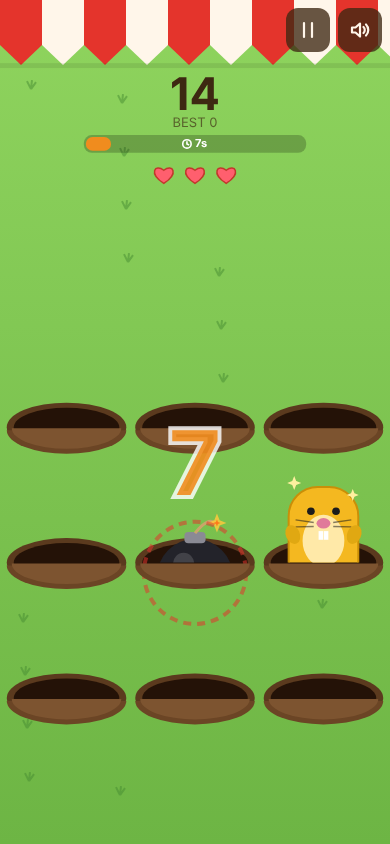
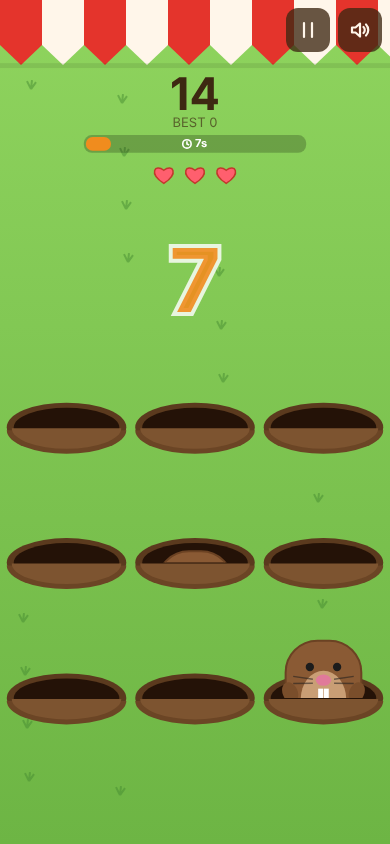
Mole Mash: 카운트다운 숫자를 윗줄 두더지 위로

diff --git a/docs/playables/molemash/index.html b/docs/playables/molemash/index.html
@@ -1395,7 +1395,7 @@
         ctx.globalAlpha = 0.9; ctx.textAlign = 'center';
         ctx.font = 'bold ' + Math.round(72 * UI * pop2) + 'px -apple-system, BlinkMacSystemFont, "Segoe UI", Roboto, Arial, sans-serif';
         ctx.lineWidth = 8 * UI; ctx.strokeStyle = 'rgba(255,255,255,0.9)'; ctx.fillStyle = sec <= 5 ? '#e4342c' : '#f08c1e';
-        var cy2 = holes[4].y - cellW * 0.59;   // between the first and second row
+        var cy2 = Math.max(grid.y + 62 * UI, holes[0].y - moleH - 22 * UI);   // just above the top row, never over a mole
         ctx.strokeText(String(sec), W / 2, cy2); ctx.fillText(String(sec), W / 2, cy2);
         ctx.restore();
       }

diff --git a/playables/molemash/index.html b/playables/molemash/index.html
@@ -1395,7 +1395,7 @@
         ctx.globalAlpha = 0.9; ctx.textAlign = 'center';
         ctx.font = 'bold ' + Math.round(72 * UI * pop2) + 'px -apple-system, BlinkMacSystemFont, "Segoe UI", Roboto, Arial, sans-serif';
         ctx.lineWidth = 8 * UI; ctx.strokeStyle = 'rgba(255,255,255,0.9)'; ctx.fillStyle = sec <= 5 ? '#e4342c' : '#f08c1e';
-        var cy2 = holes[4].y - cellW * 0.59;   // between the first and second row
+        var cy2 = Math.max(grid.y + 62 * UI, holes[0].y - moleH - 22 * UI);   // just above the top row, never over a mole
         ctx.strokeText(String(sec), W / 2, cy2); ctx.fillText(String(sec), W / 2, cy2);
         ctx.restore();
       }
